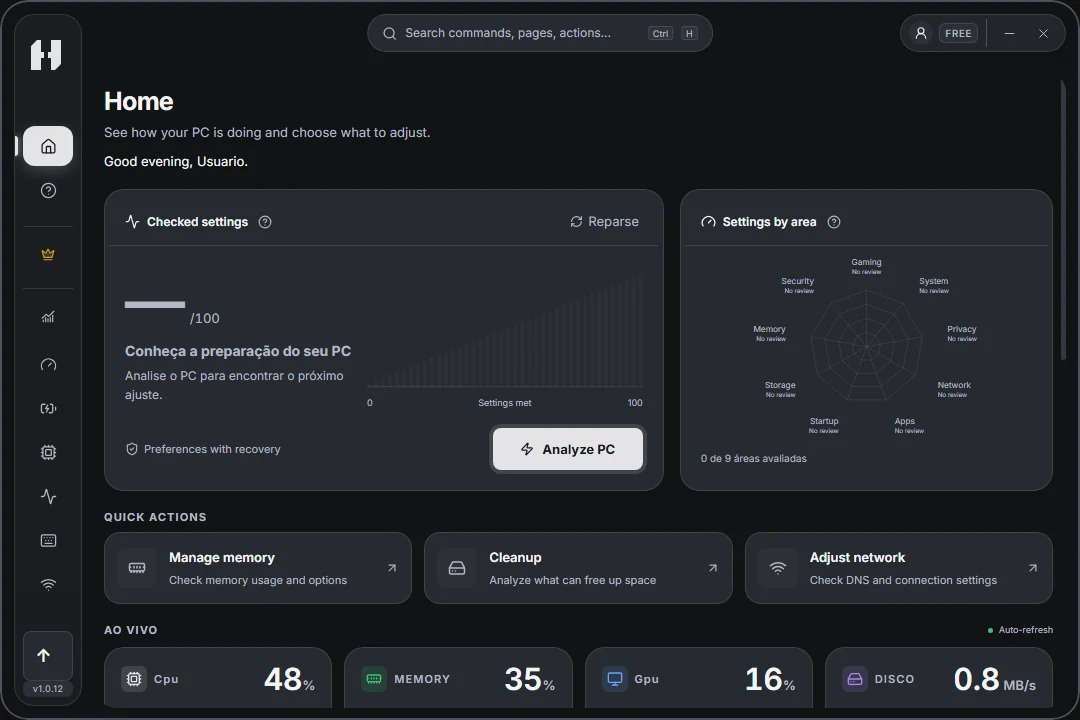
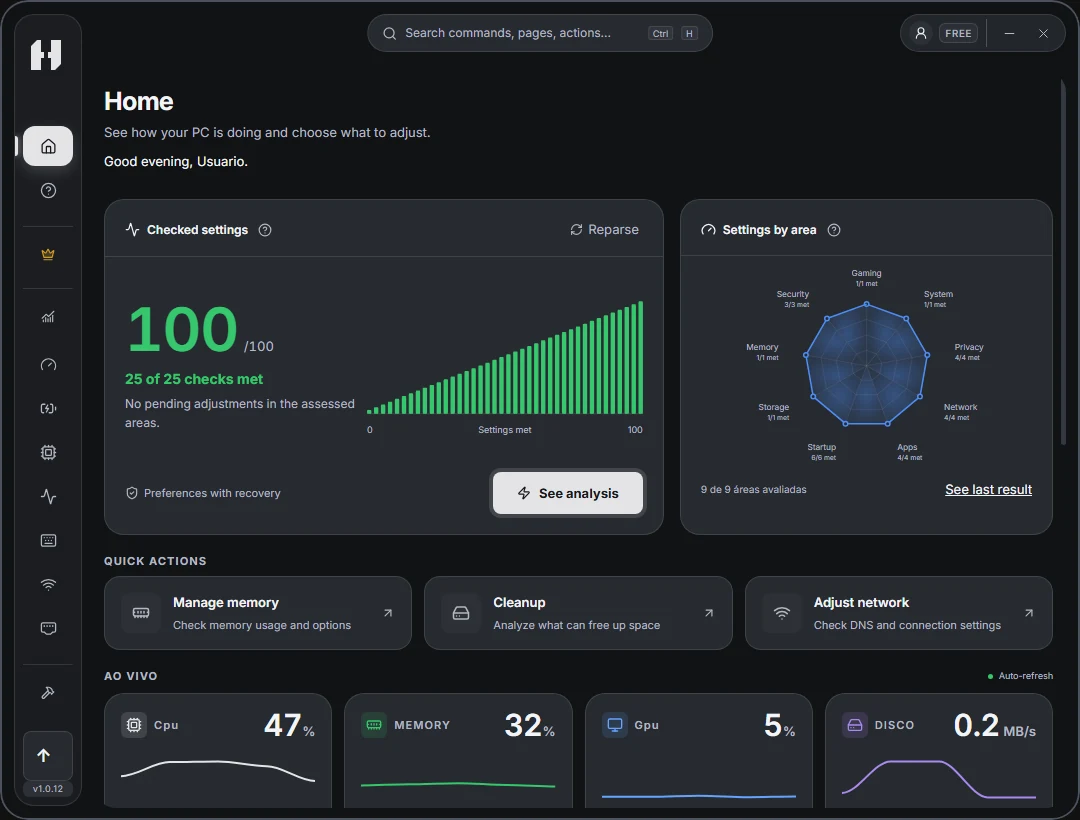
docs: show static screenshots of HyperBoost in use

diff --git a/README.es.md b/README.es.md
@@ -34,15 +34,15 @@ Compara el resultado con la línea del instalador en el archivo `SHA256SUMS.txt`
 
 ![Pantalla de inicio de HyperBoost con monitorización y accesos a las herramientas](assets/screens/1.0.12/es/home-main.webp)
 
-<sub>HyperBoost 1.0.12 · Pantalla de inicio.</sub>
+<sub>HyperBoost 1.0.12 · Pantalla de inicio después del análisis del PC.</sub>
 
 ## Modo Juego
 
 **Incluido en Pro y Founder.** Elige un perfil y activa la detección automática. Al abrir un juego compatible, HyperBoost aplica las acciones que elegiste. Al cerrar el juego, restaura los cambios temporales compatibles con la recuperación.
 
-![Demostración del Modo Juego en cuatro pasos: elegir un perfil, activar la detección, iniciar y cerrar el juego](assets/screens/1.0.12/es/game-mode-demo.gif)
+![Modo Juego durante una partida detectada de VALORANT, con el perfil de la sesión visible](assets/screens/1.0.12/es/games-main.webp)
 
-<sub>Demostración de la interfaz de HyperBoost 1.0.12 · 12 segundos · Sesión ilustrativa.</sub>
+<sub>HyperBoost 1.0.12 · Modo Juego durante una partida de VALORANT.</sub>
 
 El monitor en pantalla es opcional y viene desactivado. Cuando la captura es compatible con el juego, puedes usarlo para ver los FPS y el uso de recursos. [Cómo configurar el Modo Juego](https://www.hyperboostapps.com/ferramentas/modo-juego?lang=es).
 

diff --git a/README.md b/README.md
@@ -34,15 +34,15 @@ Compare o resultado com a linha desse instalador no arquivo `SHA256SUMS.txt` pub
 
 ![Tela Início do HyperBoost, com monitoramento e acesso às ferramentas](assets/screens/1.0.12/pt/home-main.webp)
 
-<sub>HyperBoost 1.0.12 · Tela inicial do aplicativo.</sub>
+<sub>HyperBoost 1.0.12 · Tela inicial após a análise do PC.</sub>
 
 ## Modo Jogo
 
 **Incluído no Pro e no Founder.** Escolha um perfil e ative a detecção automática. Ao abrir um jogo compatível, o HyperBoost aplica as ações que você escolheu para a partida. Ao encerrar o jogo, ele restaura as ações temporárias que oferecem recuperação.
 
-![Demonstração do Modo Jogo em quatro etapas: escolha do perfil, ativação da detecção, partida e encerramento](assets/screens/1.0.12/pt/game-mode-demo.gif)
+![Modo Jogo durante uma partida detectada de VALORANT, com o perfil da sessão visível](assets/screens/1.0.12/pt/games-main.webp)
 
-<sub>Demonstração da interface do HyperBoost 1.0.12 · 12 segundos · Sessão ilustrativa.</sub>
+<sub>HyperBoost 1.0.12 · Modo Jogo durante uma partida de VALORANT.</sub>
 
 O monitor é opcional e começa desligado. Quando a captura é compatível com o jogo, ele permite acompanhar FPS e uso de recursos. [Veja como configurar o Modo Jogo](https://www.hyperboostapps.com/ferramentas/modo-jogo?lang=pt).
 

diff --git a/README.en.md b/README.en.md
@@ -34,15 +34,15 @@ Compare the result with the installer’s entry in the `SHA256SUMS.txt` file att
 
 ![HyperBoost Home screen with monitoring and shortcuts to tools](assets/screens/1.0.12/en/home-main.webp)
 
-<sub>HyperBoost 1.0.12 · Home screen.</sub>
+<sub>HyperBoost 1.0.12 · Home screen after a PC analysis.</sub>
 
 ## Game Mode
 
 **Included with Pro and Founder.** Choose a profile and turn on automatic detection. When a supported game launches, HyperBoost applies your chosen actions. When you exit the game, it restores temporary changes that support recovery.
 
-![Four-step Game Mode demo: choose a profile, enable detection, start a game, and exit](assets/screens/1.0.12/en/game-mode-demo.gif)
+![Game Mode during a detected VALORANT match, showing the active session profile](assets/screens/1.0.12/en/games-main.webp)
 
-<sub>HyperBoost 1.0.12 interface demo · 12 seconds · Illustrative session.</sub>
+<sub>HyperBoost 1.0.12 · Game Mode during a VALORANT match.</sub>
 
 The optional overlay is off by default. When capture is supported for your game, you can use it to track FPS and resource usage. [Learn how to set up Game Mode](https://www.hyperboostapps.com/ferramentas/game-mode?lang=en).
 
